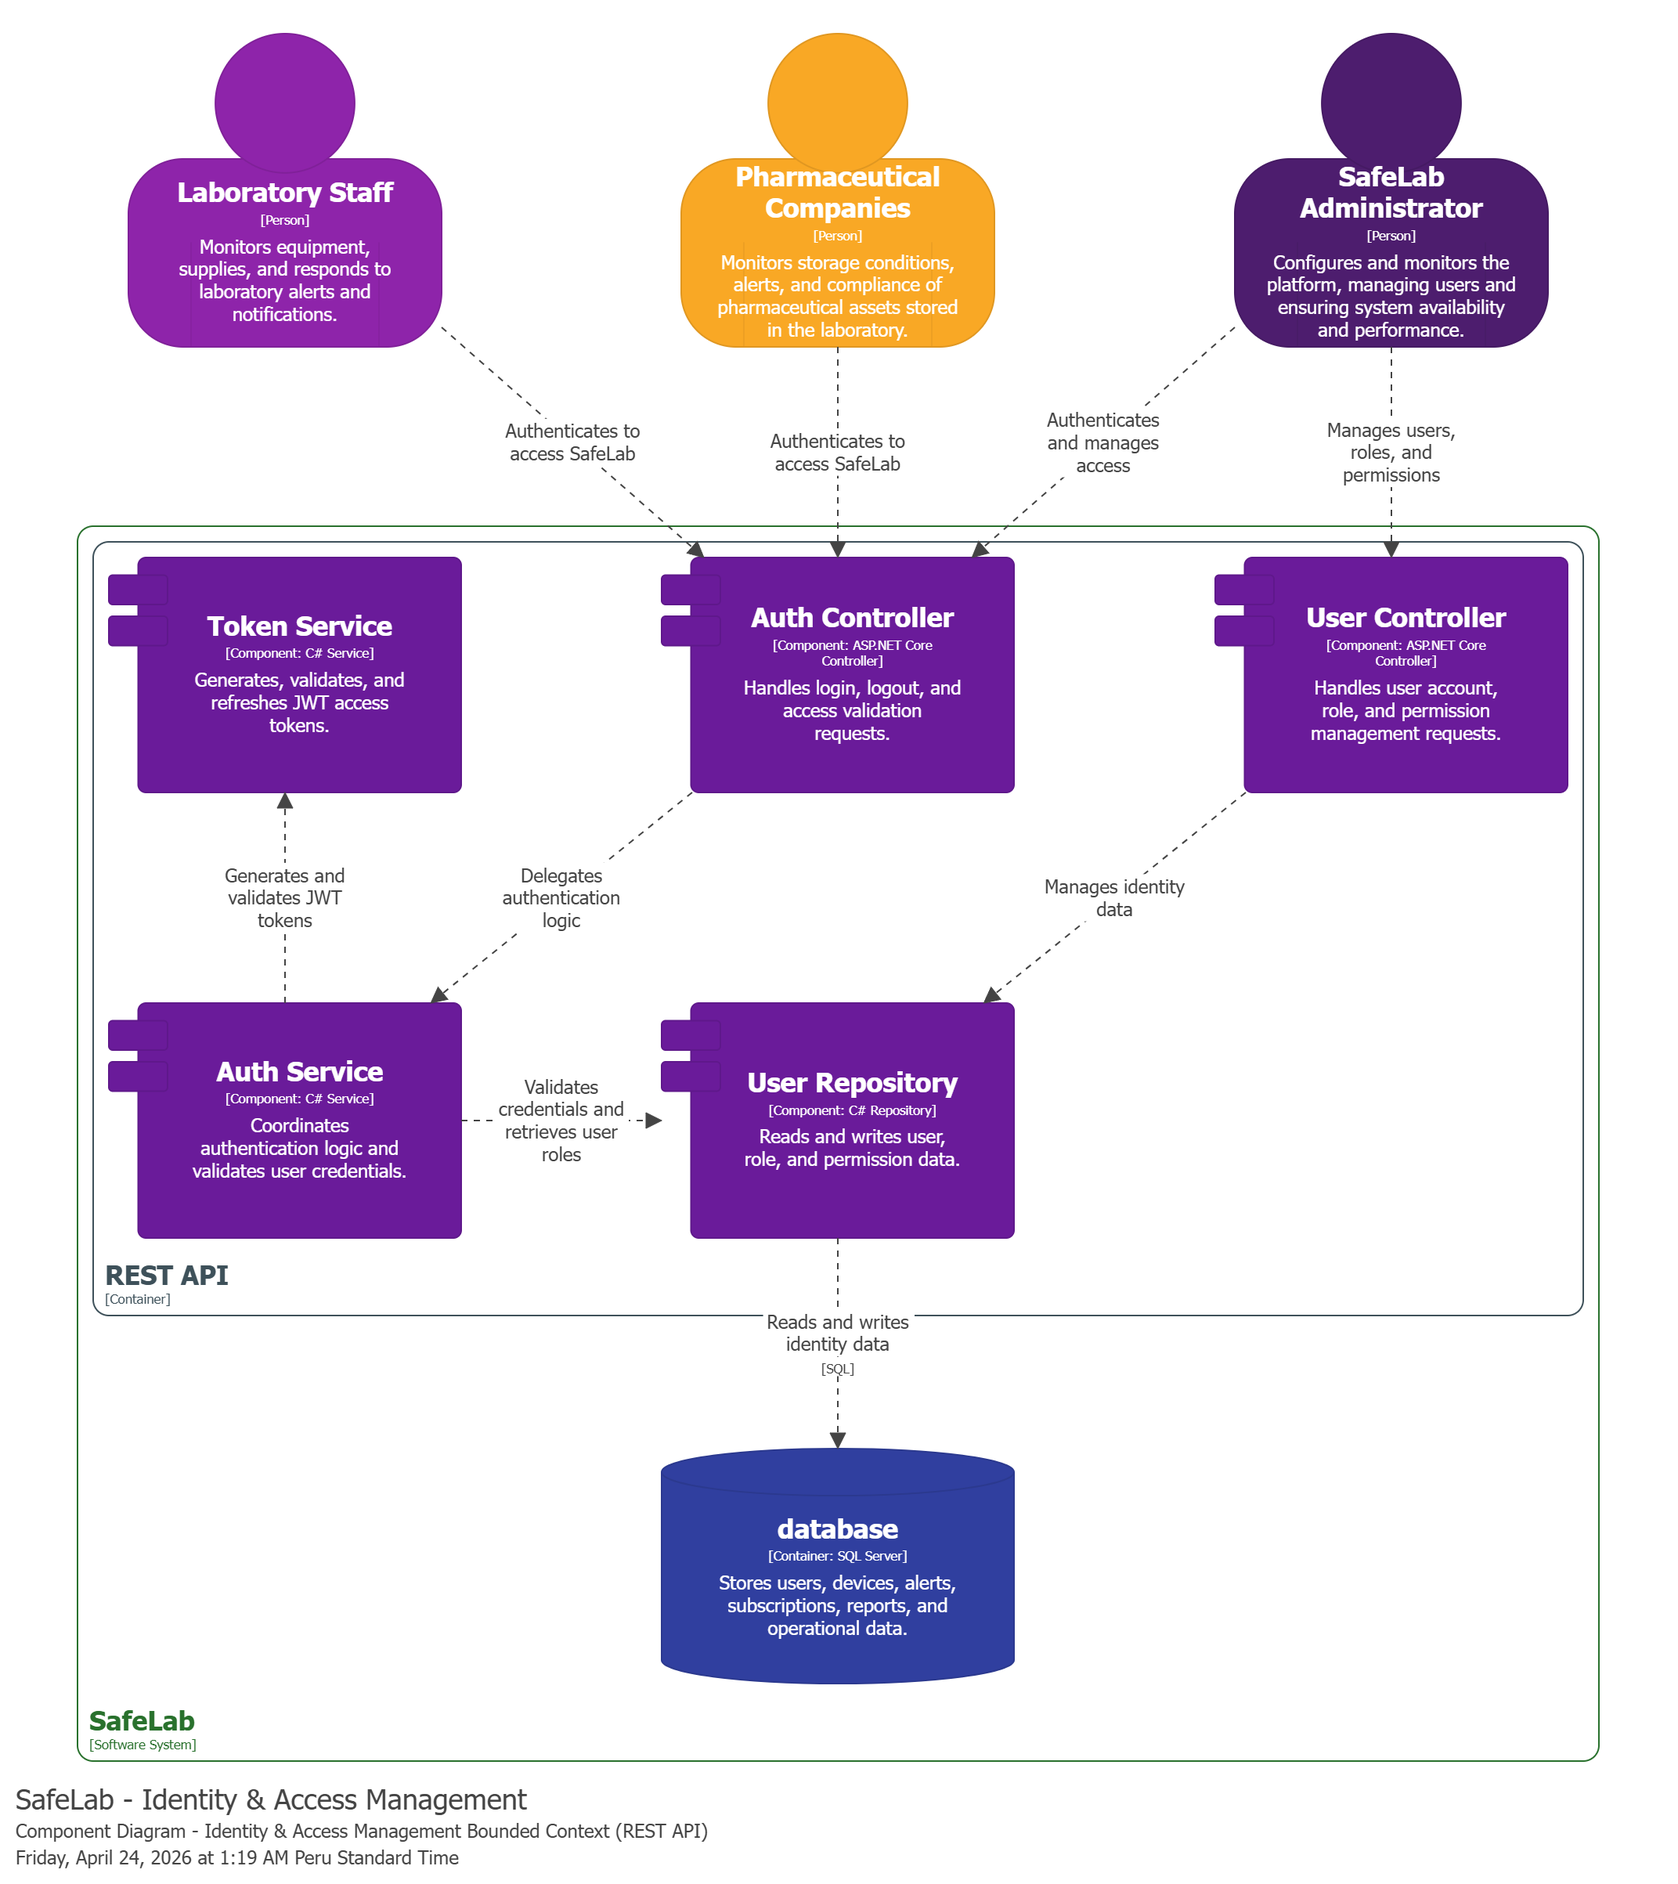
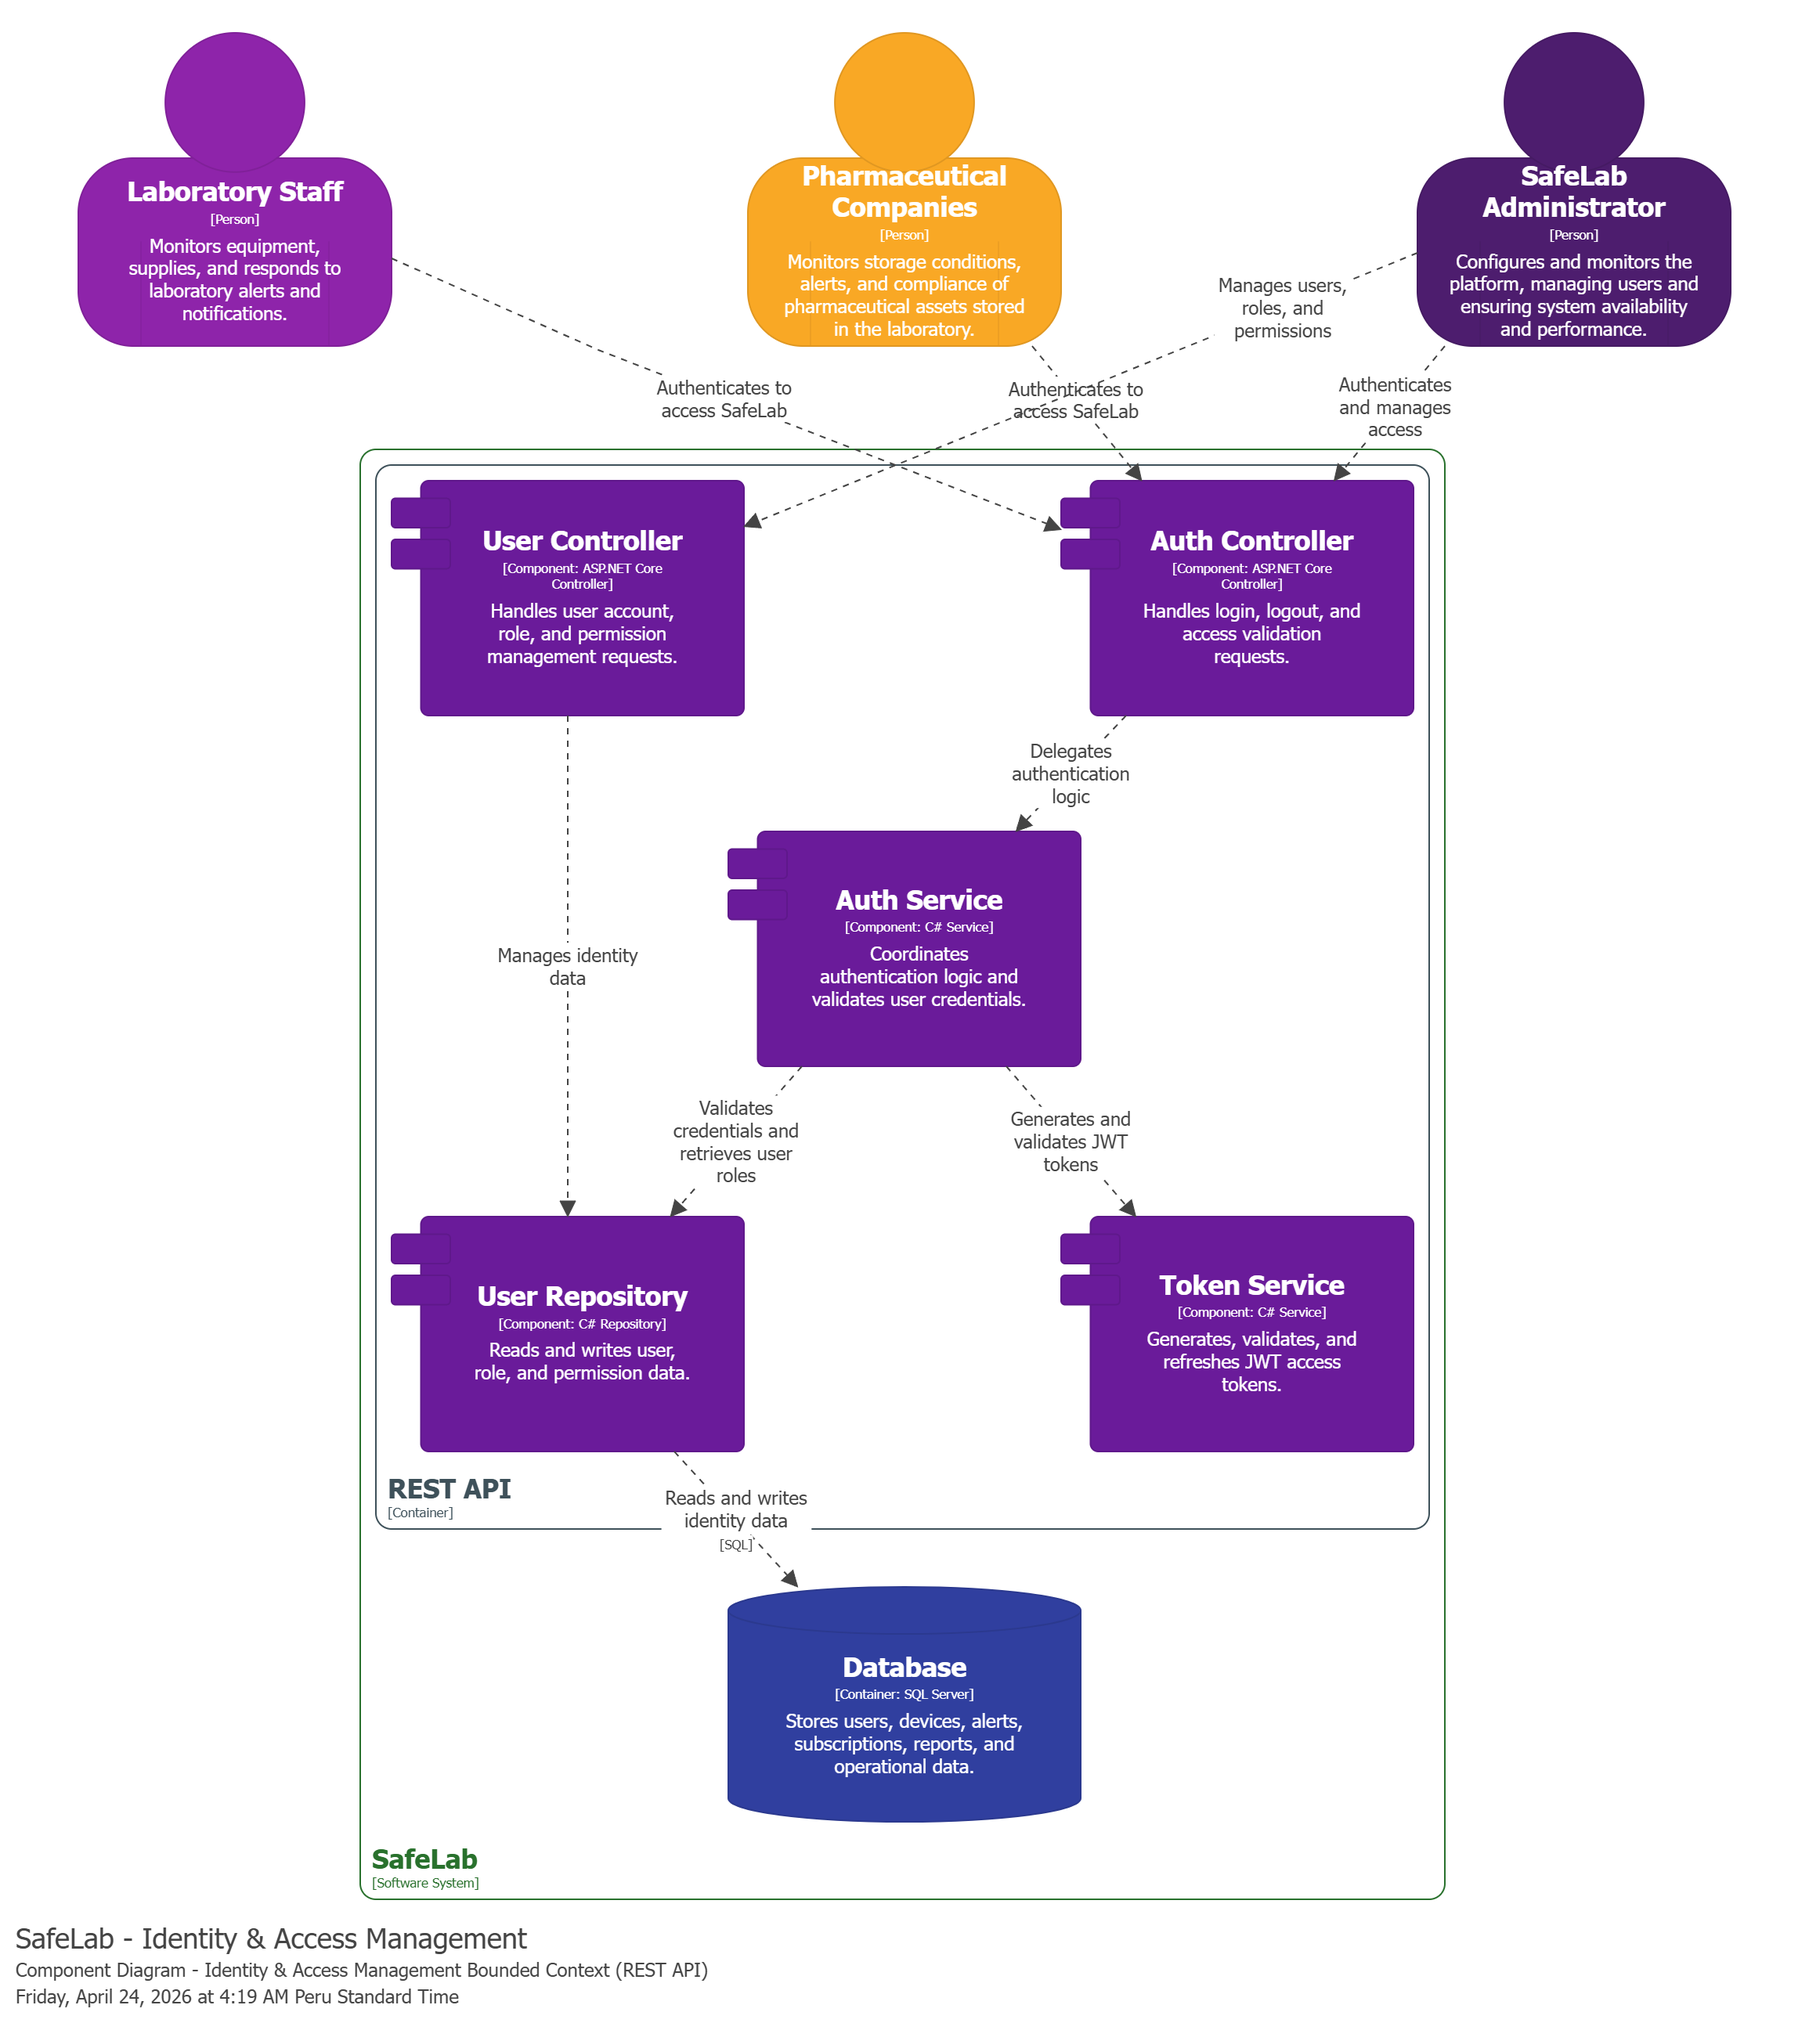
fix(diagram): correct casing of 'database' in ContainerDiagram

diff --git a/safelab-c4-model-design/container-diagram/ContainerDiagram.cs b/safelab-c4-model-design/container-diagram/ContainerDiagram.cs
@@ -58,7 +58,7 @@ namespace safelab_c4_model_design
             );
 
             database = contextDiagram.safelab.AddContainer(
-                "database",
+                "Database",
                 "Stores users, devices, alerts, subscriptions, reports, and operational data.",
                 "SQL Server"
             );
